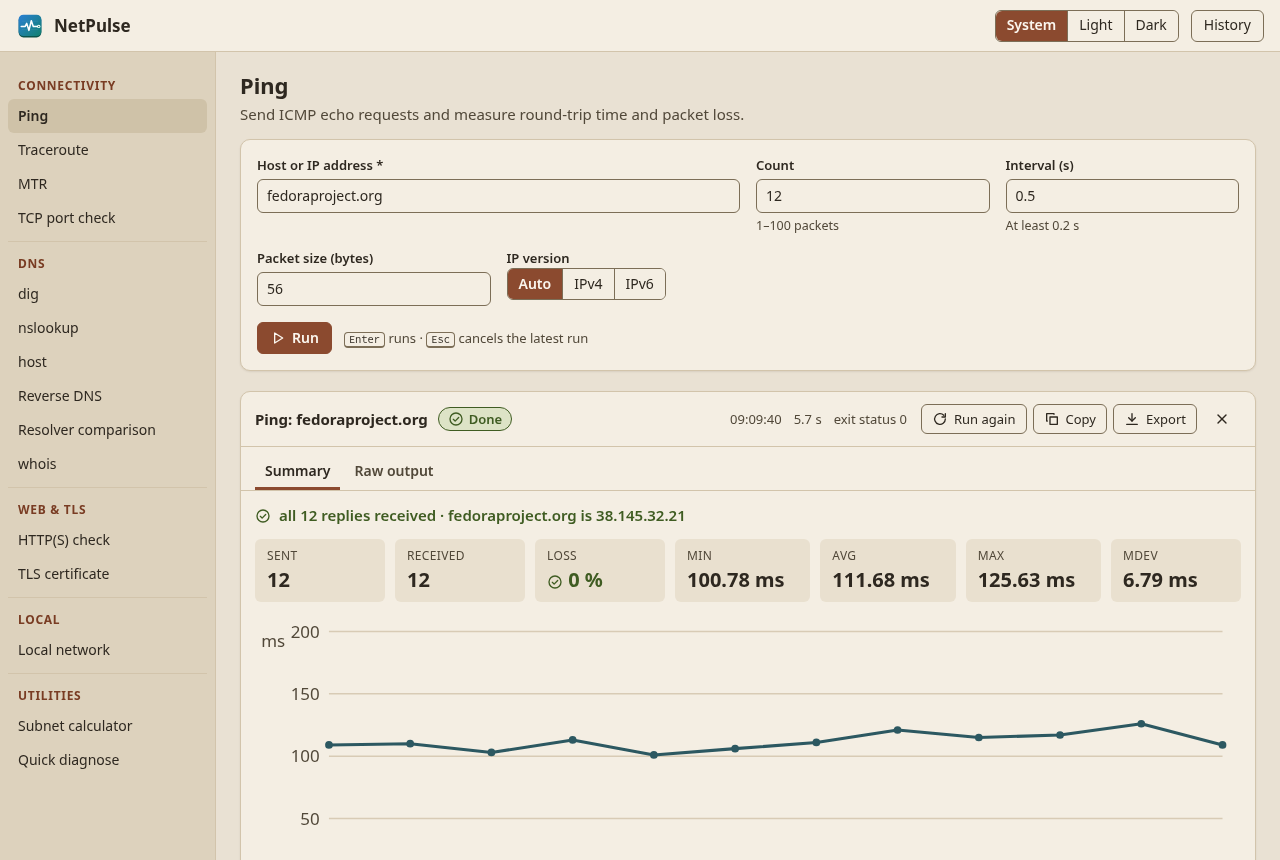
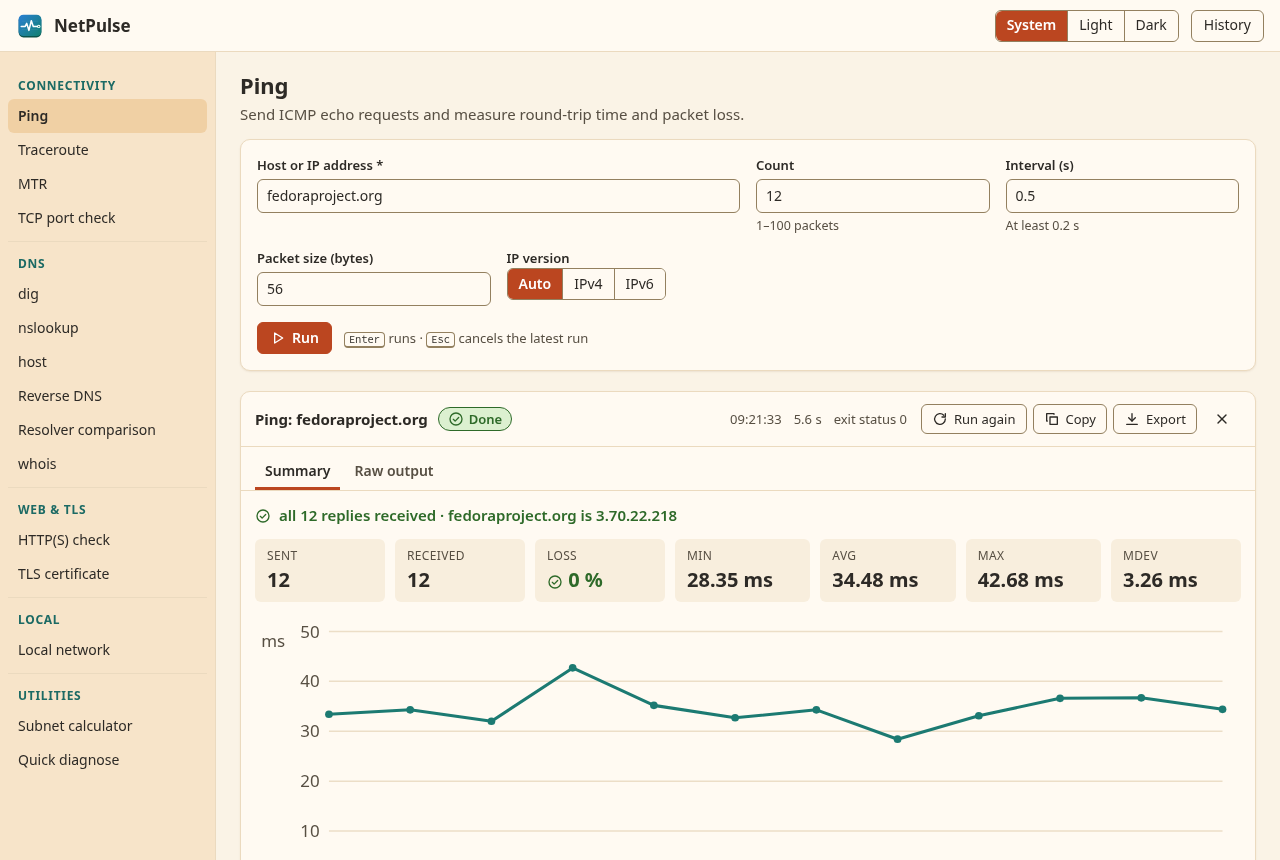
style(theme): happier warm pastel light theme; round chart axis steps
Cream background, apricot sidebar, coral accent, teal headings and
mint/sun/pink/sky status colours; every pair still meets WCAG AA. The RTT
chart now uses round axis steps (0, 50, 100… instead of 12.5, 25…).

diff --git a/src/netpulse/static/css/app.css b/src/netpulse/static/css/app.css
@@ -9,45 +9,45 @@
 /* ------------------------------------------------------------------ tokens */
 :root,
 :root[data-theme="light"] {
-  /* "Semi-light" earth palette: sand, clay, terracotta, sage, ochre. Muted, not bright. */
+  /* Warm, cheerful pastels: cream, apricot, coral, teal, mint, sunny yellow, sky. */
   color-scheme: light;
-  --bg: #e9e1d3;
-  --surface: #f4eee3;
-  --surface-2: #e9e0cf;
-  --sidebar-bg: #ddd2bd;
-  --sidebar-hover: #d3c6ae;
-  --sidebar-active: #cfc2a8;
-  --sidebar-heading: #793c23;
-  --border: #d2c4ab;
-  --border-strong: #7c6e57;
-  --text: #2e2820;
-  --text-muted: #514839;
-  --accent: #8b4a2f;
-  --accent-hover: #733b24;
-  --accent-text: #fbf6ee;
-  --link: #84442a;
-  --focus: #84442a;
-  --ok: #3f5c22;
-  --ok-bg: #dde3c6;
-  --warn: #714800;
-  --warn-bg: #eedcb4;
-  --err: #962e1d;
-  --err-bg: #efd2c6;
-  --info: #2c5861;
-  --info-bg: #d2dfdc;
-  --code-bg: #ede5d6;
-  --code-text: #2e2820;
-  --chart-line: #2c5861;
-  --chart-loss: #962e1d;
-  --chart-grid: #d8cbb5;
-  --chart-axis: #514839;
-  --bar-1: #2c5861;
-  --bar-2: #8b4a2f;
-  --bar-3: #556b26;
-  --bar-4: #8a5f12;
-  --bar-5: #6b4a66;
-  --shadow: rgba(70, 50, 25, 0.1);
-  --backdrop: rgba(45, 32, 20, 0.4);
+  --bg: #faf3e6;
+  --surface: #fffaf2;
+  --surface-2: #f8eedd;
+  --sidebar-bg: #f7e4c9;
+  --sidebar-hover: #f2d9b6;
+  --sidebar-active: #f0d0a4;
+  --sidebar-heading: #1c6a64;
+  --border: #ebdabf;
+  --border-strong: #93805f;
+  --text: #2d2a26;
+  --text-muted: #574f43;
+  --accent: #bb4620;
+  --accent-hover: #9f3a19;
+  --accent-text: #ffffff;
+  --link: #a63f1b;
+  --focus: #1c6a64;
+  --ok: #2e6a29;
+  --ok-bg: #dcf0d0;
+  --warn: #775000;
+  --warn-bg: #fdecb5;
+  --err: #ad2c25;
+  --err-bg: #fbdcd6;
+  --info: #1d5e88;
+  --info-bg: #d9ecf8;
+  --code-bg: #fbf3e5;
+  --code-text: #2d2a26;
+  --chart-line: #1c7a72;
+  --chart-loss: #ad2c25;
+  --chart-grid: #ecdec7;
+  --chart-axis: #574f43;
+  --bar-1: #1c7a72;
+  --bar-2: #c7552a;
+  --bar-3: #4f8a2a;
+  --bar-4: #a8750a;
+  --bar-5: #7a52a0;
+  --shadow: rgba(120, 80, 30, 0.1);
+  --backdrop: rgba(60, 40, 20, 0.35);
 }
 
 :root[data-theme="dark"] {

diff --git a/src/netpulse/static/js/chart.js b/src/netpulse/static/js/chart.js
@@ -5,13 +5,6 @@
  */
 import { h, s } from "./dom.js";
 
-function niceMax(v) {
-  if (v <= 0) return 1;
-  const exp = Math.pow(10, Math.floor(Math.log10(v)));
-  for (const m of [1, 2, 2.5, 5, 10]) if (m * exp >= v) return m * exp;
-  return 10 * exp;
-}
-
 /**
  * RTT line chart. points: [{seq, rtt|null}] (null = lost).
  * Returns a <figure> with an accessible description.
@@ -23,7 +16,11 @@ export function rttChart(points, { label = "Round-trip time per packet", unit = 
   const iw = W - pad.l - pad.r;
   const ih = H - pad.t - pad.b;
   const values = points.filter((p) => p.rtt !== null && p.rtt !== undefined).map((p) => p.rtt);
-  const max = niceMax(values.length ? Math.max(...values) * 1.1 : 1);
+  // Round axis steps (1, 2 or 5 × 10^n) so labels read 10, 20, 30… not 12.5, 25, 37.5.
+  const top = values.length ? Math.max(...values) * 1.1 : 1;
+  const mag = Math.pow(10, Math.floor(Math.log10(top / 4)));
+  const step = [1, 2, 5, 10].map((m) => m * mag).find((st) => top / st <= 5) || 10 * mag;
+  const max = Math.ceil(top / step) * step;
   const n = Math.max(points.length, 2);
   const seqs = points.map((p) => p.seq);
   const minSeq = seqs.length ? Math.min(...seqs) : 1;
@@ -35,9 +32,8 @@ export function rttChart(points, { label = "Round-trip time per packet", unit = 
   const svg = s("svg", { viewBox: `0 0 ${W} ${H}`, role: "img", "aria-label": label, preserveAspectRatio: "xMidYMid meet" });
   const grid = s("g", { class: "grid" });
   const axis = s("g", { class: "axis" });
-  const step = max / 4;
-  const digits = step >= 10 ? 0 : step >= 1 ? 1 : Math.min(4, Math.ceil(-Math.log10(step)) + 1);
-  for (let i = 0; i <= 4; i++) {
+  const digits = step >= 1 ? 0 : Math.min(4, Math.ceil(-Math.log10(step)));
+  for (let i = 0; i <= Math.round(max / step); i++) {
     const v = step * i;
     const yy = y(v);
     grid.appendChild(s("line", { x1: pad.l, x2: W - pad.r, y1: yy, y2: yy }));

diff --git a/CHANGELOG.md b/CHANGELOG.md
@@ -22,7 +22,7 @@ and this project adheres to [Semantic Versioning](https://semver.org/spec/v2.0.0
 - Live output over Server-Sent Events, cancelling, several jobs at once, Copy and export
   as TXT, JSON and Markdown.
 - Searchable run history with re-run, clear and a size limit.
-- Light (soft earth tones), Dark and System themes with WCAG 2.1 AA contrast.
+- Light (warm pastels), Dark and System themes with WCAG 2.1 AA contrast.
 - RPM spec, desktop file, AppStream metainfo, icons, man page and Packit configuration.
 
 [Unreleased]: https://github.com/agent-denis/netpulse/compare/v1.0.0...HEAD

diff --git a/README.md b/README.md
@@ -10,7 +10,7 @@ output live and turns it into an easy-to-read summary.
 
 - Runs locally, for one user. No account, no cloud, **no telemetry, no update checks**.
 - Works offline (apart from the network tests themselves). All assets ship in the package.
-- A soft, earthy light theme, a dark theme and System mode; WCAG 2.1 AA contrast, full keyboard use.
+- A warm, cheerful pastel light theme, a dark theme and System mode; WCAG 2.1 AA contrast, full keyboard use.
 - Opens in a native GTK window, or in your web browser if GTK/WebKit isn't installed.
 
 ## Features
